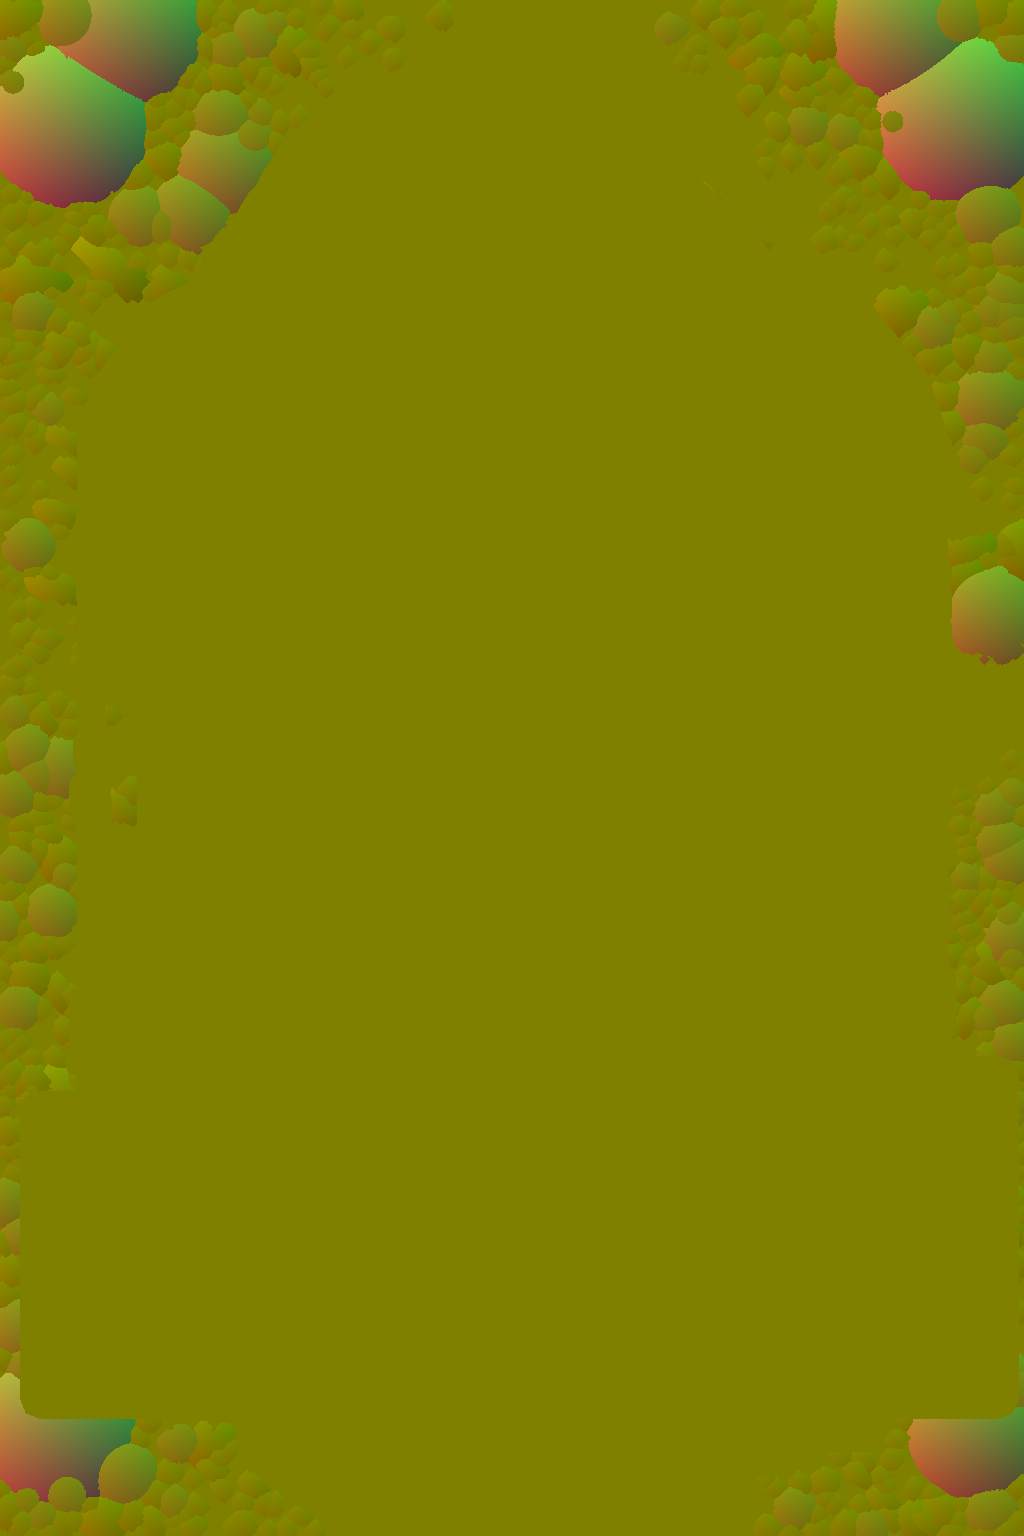
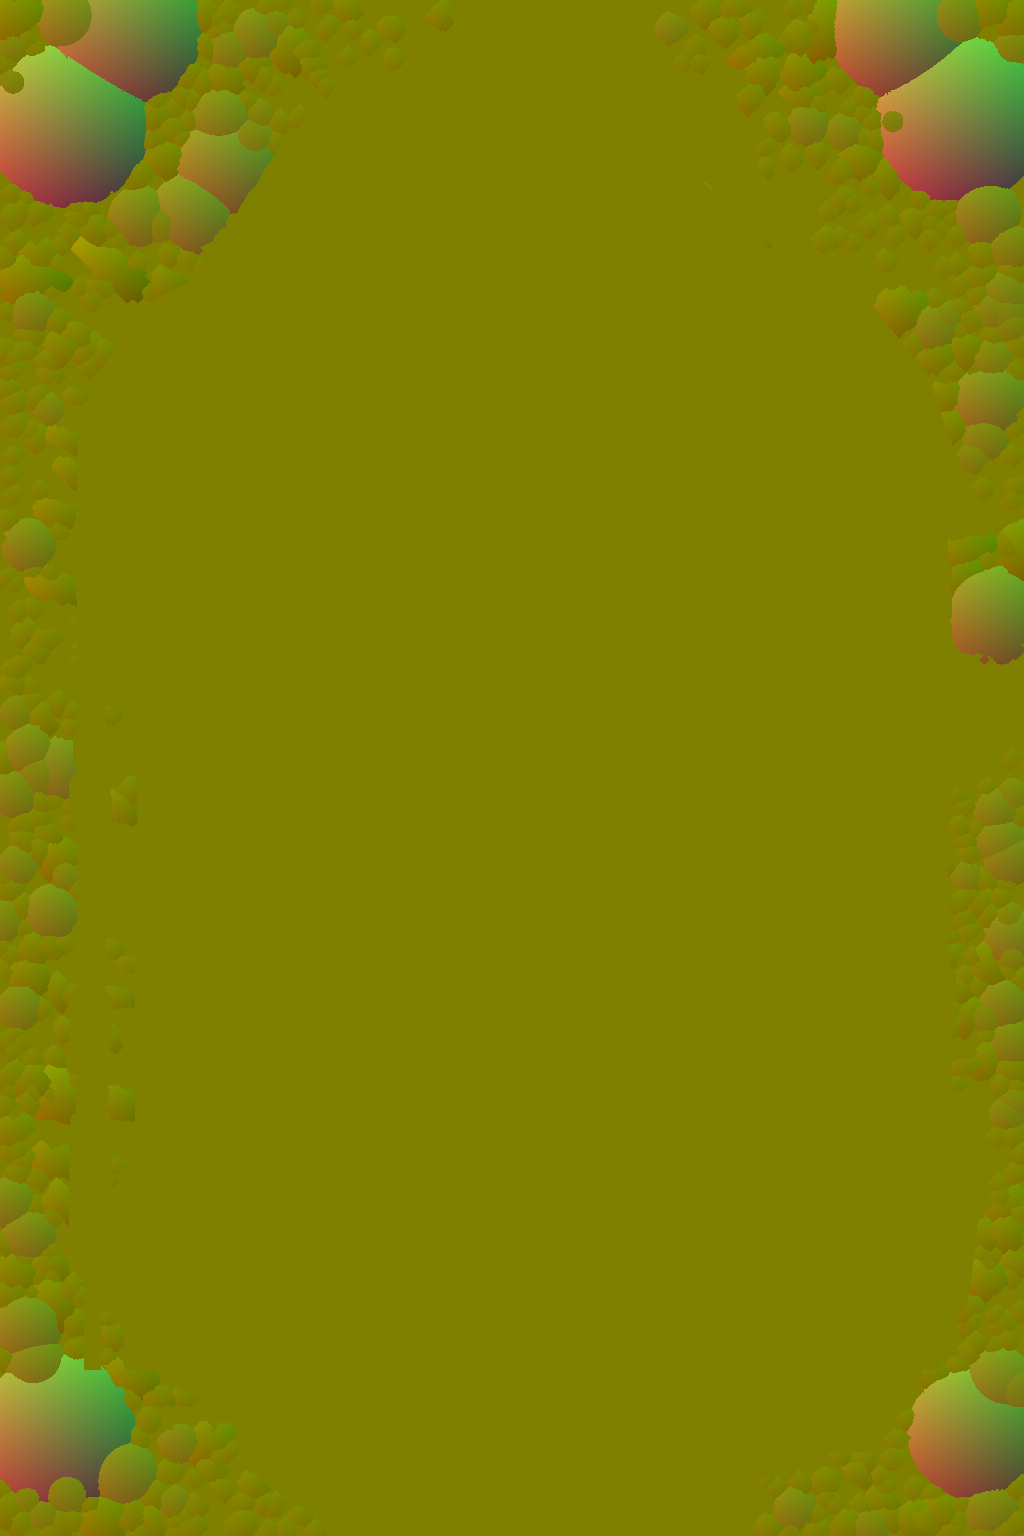
Animate the bottom-corner flowers; flower motion +10%
The bottom-left and bottom-right flower clusters lay inside the 'hold
still' scenery zone (built to protect the skyline, trees and bank), so
they never moved. Flowers and leaves are now excluded from that zone when
building the pieces and sway maps (scenery stays protected: 0 non-flower
pixels move). Low, nearly flat sprays along the bottom also get at least
45% of the breeze. Stems 8.5 -> 9.35 deg, heads 3.0/1.8 -> 3.3/1.98 deg.

Changed region(s): [[0.0, 0.8438, 0.125, 0.9375], [0.875, 0.875, 1.0, 0.9375]]

diff --git a/src/animation/ambient.ts b/src/animation/ambient.ts
@@ -44,9 +44,9 @@ varying vec2 vUv;
 const vec2 SIZE = vec2(1024.0, 1536.0);
 const float TAU = 6.2831853;
 // largest rotations, in degrees
-const float STEM_DEG = 8.5;         // thin outer stems, about their roots
-const float HEAD_DEG_SMALL = 3.0;   // small flower heads, about their stems
-const float HEAD_DEG_LARGE = 1.8;   // the large peonies
+const float STEM_DEG = 9.35;         // thin outer stems, about their roots
+const float HEAD_DEG_SMALL = 3.3;   // small flower heads, about their stems
+const float HEAD_DEG_LARGE = 1.98;   // the large peonies
 
 // smooth value noise, so motion is organic and never one repeating sine
 // (inputs wrapped to a small range so it stays precise on mobile GPUs)
@@ -77,7 +77,9 @@ float stemLean(vec2 x, out vec2 q) {
   float fromTop = 1.0 - smoothstep(620.0, 860.0, x.y);
   vec2 qT = x - vec2(root.x, 0.0), qB = x - vec2(root.x, SIZE.y);
   q = fromTop > 0.5 ? qT : qB;
-  return mix(-qB.y / max(length(qB), 1.0), -qT.y / max(length(qT), 1.0), fromTop);
+  // the low sprays along the bottom lie almost flat; they still catch a fair
+  // share of the breeze (at least 45%), so they sway too
+  return mix(0.45 + 0.55 * (-qB.y / max(length(qB), 1.0)), -qT.y / max(length(qT), 1.0), fromTop);
 }
 
 // The thin stems at x: each garland turns as one connected structure, by a
@@ -92,7 +94,7 @@ vec2 stemField(vec2 x) {
   vec2 rootX = vec2(x.x < SIZE.x * 0.5 ? 0.0 : SIZE.x, 0.0);
   vec2 qT = x - rootX, qB = x - rootX - vec2(0.0, SIZE.y);
   vec2 turnT = (-qT.y / max(length(qT), 1.0)) * vec2(-qT.y, qT.x);
-  vec2 turnB = (-qB.y / max(length(qB), 1.0)) * vec2(-qB.y, qB.x);
+  vec2 turnB = (0.45 + 0.55 * (-qB.y / max(length(qB), 1.0))) * vec2(-qB.y, qB.x);
   vec3 sm = texture2D(uSway, x / SIZE).rgb;                    // r: foliage, g/b: px to scenery/frame
   vec2 reach = sm.r * radians(STEM_DEG) * mix(turnB, turnT, fromTop);   // the full swing here
   vec2 room = 3.0 + 0.2 * vec2(min(x.x, SIZE.x - x.x), min(x.y, SIZE.y - x.y));
@@ -160,7 +162,7 @@ void main() {
   // cut into pieces (each flower head, leaf and bud, from the pieces map), and
   // every piece moves rigidly, so nothing ever stretches or changes shape:
   //   main branches  still (near where each garland grows from)
-  //   thin stems     the outer sprays and vines turn up to ~8.5 deg about the
+  //   thin stems     the outer sprays and vines turn up to ~9.35 deg about the
   //                  garland's root corner; each piece takes the local motion
   //                  as a rigid shift and turn, so only the thin stems and the
   //                  sky between pieces flex
